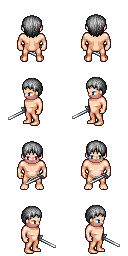
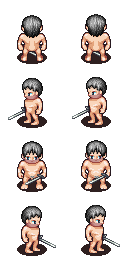
better male anim

diff --git a/src/game/scenes/MainMenu.ts b/src/game/scenes/MainMenu.ts
@@ -1,7 +1,7 @@
 import { Scene, GameObjects } from 'phaser';
 
 const COLORS = {
-    title: '#ffffff',
+    title: '#ebf7fb',
     titleStroke: '#000000',
     buttonText: '#ffffff',
     buttonBg: '#2d2d2d',
@@ -25,7 +25,7 @@ export class MainMenu extends Scene {
         const centerX = this.cameras.main.centerX;
         this.logo = this.add.image(512, 200, 'logo');
 
-        this.title = this.add.text(512, 260, 'Main JJK Menu', {
+        this.title = this.add.text(512, 120, 'JJK TypeScript Game Dev Test Suite', {
             fontFamily: 'Arial Black', fontSize: 38, color: COLORS.title,
             stroke: COLORS.titleStroke, strokeThickness: 8,
             align: 'center'
@@ -61,7 +61,7 @@ export class MainMenu extends Scene {
         };
 
         // The 3 clickable buttons
-        createButton(0 ,0, 'Player Demo', () => {
+        createButton(0 ,0, 'Player Anim.', () => {
             this.scene.start('Demo1');
         });
 

diff --git a/src/game/scenes/Demo2.ts b/src/game/scenes/Demo2.ts
@@ -32,7 +32,6 @@ export class Demo2 extends Scene {
     }
 
     preload() {
-        // Load the sprite sheet for the player (https://liberatedpixelcup.github.io/Universal-LPC-Spritesheet-Character-Generator)
         this.load.spritesheet('player-walk', 'assets/player-walk.png', { frameWidth: 64, frameHeight: 64 });
         this.load.spritesheet('tilemap9', 'assets/tilemap9.png', { frameWidth: 64, frameHeight: 64 });
         this.load.spritesheet('rocks', 'assets/rocks.png', { frameWidth: 64, frameHeight: 64 });

diff --git a/gameplay.md b/gameplay.md
@@ -1,0 +1,46 @@
+# AI assisted Game Development
+
+## spring 2026
+
+### TypeScript and Phaser
+
+#### Inspiration
+
+* Genesis chapter 1-3
+* C.S. Lewis: The Magician's Nephew
+* The HTML game: Dissolution by Riccardo Grinover
+* The state of AI coding tool spring 2026
+* Previous experimentation with procedural generated worlds
+
+##### Included Tech Demos
+
+* Player character animation, movement and variability
+
+  * Manuel brush-Up, Shadow on all, Weapons on Idles, Proper fall animation, MOB's and Critters
+* Layered tiled map and the ability to create visually pleasing game worlds
+* Chucked tile maps for 'infinite' large game worlds, but manageable and with load and save
+
+##### Future Tech Demos
+
+* MOB and Critter movement and logic
+* Sound Effects
+* Visual effects for magic
+
+##### Asset Credits
+
+##### Gameplay Mechanics
+
+##### Tile Wold Building 
+
+|Ciffer|0|1|2|3|4|5|6|7|8|9|
+|-|-|-|-|-|-|-|-|-|-|-|
+|Biome|Void|Rock|Desert|Grasslands|Forest|Water|Swamp|Crystal|Jungle|Mountains|
+|Ground Tile|||||||||||
+|Type|No other|Decoration|Small Blocking|Large blocking|Full Blocking|Double tile|Unique Tile||||
+|Index ciffer 1|-||||||||||
+|Index ciffer 2|-||||||||||
+
+
+
+
+
